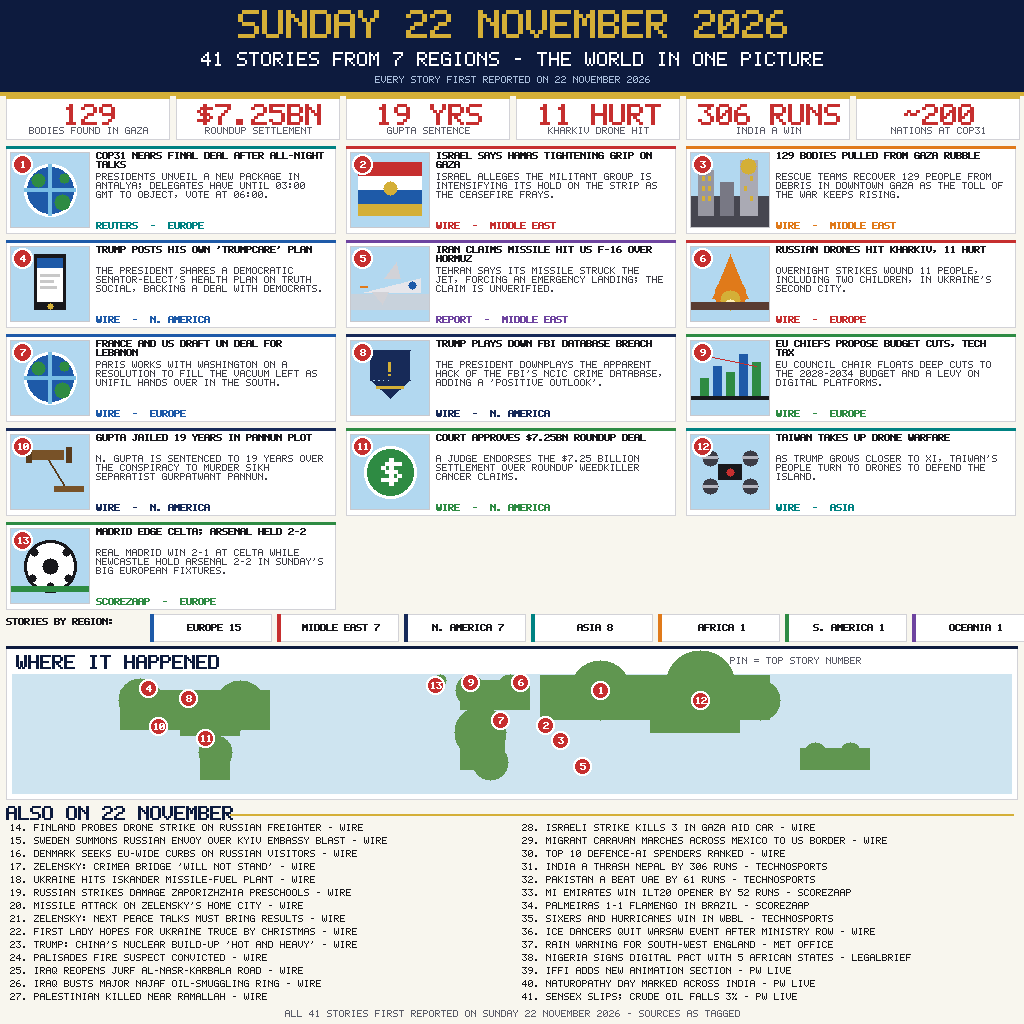
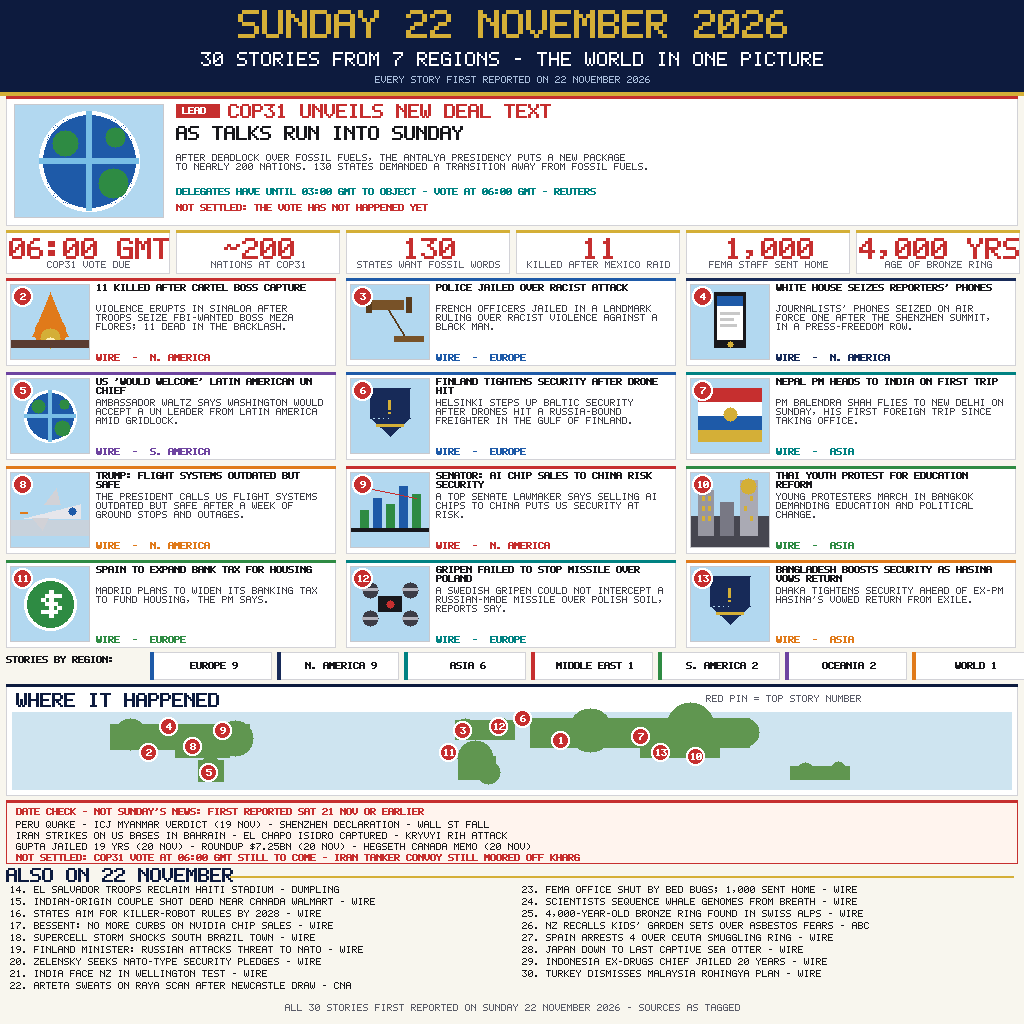
news-image-20261122 round 2: giant COP31 lead, DATE CHECK box, 30 verified 22-Nov stories

diff --git a/main.ts b/main.ts
@@ -253,70 +253,60 @@ function wrapText(s, maxW, scale) {
 }
 
 // ---------- story data: every story first reported on Sunday 22 Nov 2026 ----------
-// TOP 13 get a drawn visual panel; the rest appear in the numbered ALSO list.
+// Story 1 is the giant lead. TOP 2-13 get a drawn visual panel; the rest appear
+// in the numbered ALSO list. Items first reported 21 Nov or earlier are NOT
+// listed as news: they appear only in the DATE CHECK box below.
 // [num, headline, summary, source, region, scene, accent]
 const TOP = [
-  [1, "COP31 NEARS FINAL DEAL AFTER ALL-NIGHT TALKS", "Presidents unveil a new package in Antalya; delegates have until 03:00 GMT to object, vote at 06:00.", "REUTERS", "EUROPE", "globe", TEAL],
-  [2, "ISRAEL SAYS HAMAS TIGHTENING GRIP ON GAZA", "Israel alleges the militant group is intensifying its hold on the Strip as the ceasefire frays.", "WIRE", "MIDDLE EAST", "flag", RED],
-  [3, "129 BODIES PULLED FROM GAZA RUBBLE", "Rescue teams recover 129 people from debris in downtown Gaza as the toll of the war keeps rising.", "WIRE", "MIDDLE EAST", "building", ORANGE],
-  [4, "TRUMP POSTS HIS OWN 'TRUMPCARE' PLAN", "The president shares a Democratic senator-elect's health plan on Truth Social, backing a deal with Democrats.", "WIRE", "N. AMERICA", "phone", BLUE],
-  [5, "IRAN CLAIMS MISSILE HIT US F-16 OVER HORMUZ", "Tehran says its missile struck the jet, forcing an emergency landing; the claim is unverified.", "REPORT", "MIDDLE EAST", "plane", PURPLE],
-  [6, "RUSSIAN DRONES HIT KHARKIV, 11 HURT", "Overnight strikes wound 11 people, including two children, in Ukraine's second city.", "WIRE", "EUROPE", "flame", RED],
-  [7, "FRANCE AND US DRAFT UN DEAL FOR LEBANON", "Paris works with Washington on a resolution to fill the vacuum left as UNIFIL hands over in the south.", "WIRE", "EUROPE", "globe", BLUE],
-  [8, "TRUMP PLAYS DOWN FBI DATABASE BREACH", "The president downplays the apparent hack of the FBI's NCIC crime database, adding a 'positive outlook'.", "WIRE", "N. AMERICA", "shield", NAVY2],
-  [9, "EU CHIEFS PROPOSE BUDGET CUTS, TECH TAX", "EU Council chair floats deep cuts to the 2028-2034 budget and a levy on digital platforms.", "WIRE", "EUROPE", "chart", GREEN],
-  [10, "GUPTA JAILED 19 YEARS IN PANNUN PLOT", "N. Gupta is sentenced to 19 years over the conspiracy to murder Sikh separatist Gurpatwant Pannun.", "WIRE", "N. AMERICA", "gavel", NAVY2],
-  [11, "COURT APPROVES $7.25BN ROUNDUP DEAL", "A judge endorses the $7.25 billion settlement over Roundup weedkiller cancer claims.", "WIRE", "N. AMERICA", "dollar", GREEN],
-  [12, "TAIWAN TAKES UP DRONE WARFARE", "As Trump grows closer to Xi, Taiwan's people turn to drones to defend the island.", "WIRE", "ASIA", "drone", TEAL],
-  [13, "MADRID EDGE CELTA; ARSENAL HELD 2-2", "Real Madrid win 2-1 at Celta while Newcastle hold Arsenal 2-2 in Sunday's big European fixtures.", "SCOREZAAP", "EUROPE", "ball", GREEN],
+  [2, "11 KILLED AFTER CARTEL BOSS CAPTURE", "Violence erupts in Sinaloa after troops seize FBI-wanted boss Meza Flores; 11 dead in the backlash.", "WIRE", "N. AMERICA", "flame", RED],
+  [3, "POLICE JAILED OVER RACIST ATTACK", "French officers jailed in a landmark ruling over racist violence against a black man.", "WIRE", "EUROPE", "gavel", BLUE],
+  [4, "WHITE HOUSE SEIZES REPORTERS' PHONES", "Journalists' phones seized on Air Force One after the Shenzhen summit, in a press-freedom row.", "WIRE", "N. AMERICA", "phone", NAVY2],
+  [5, "US 'WOULD WELCOME' LATIN AMERICAN UN CHIEF", "Ambassador Waltz says Washington would accept a UN leader from Latin America amid gridlock.", "WIRE", "S. AMERICA", "globe", PURPLE],
+  [6, "FINLAND TIGHTENS SECURITY AFTER DRONE HIT", "Helsinki steps up Baltic security after drones hit a Russia-bound freighter in the Gulf of Finland.", "WIRE", "EUROPE", "shield", BLUE],
+  [7, "NEPAL PM HEADS TO INDIA ON FIRST TRIP", "PM Balendra Shah flies to New Delhi on Sunday, his first foreign trip since taking office.", "WIRE", "ASIA", "flag", TEAL],
+  [8, "TRUMP: FLIGHT SYSTEMS OUTDATED BUT SAFE", "The president calls US flight systems outdated but safe after a week of ground stops and outages.", "WIRE", "N. AMERICA", "plane", ORANGE],
+  [9, "SENATOR: AI CHIP SALES TO CHINA RISK SECURITY", "A top Senate lawmaker says selling AI chips to China puts US security at risk.", "WIRE", "N. AMERICA", "chart", RED],
+  [10, "THAI YOUTH PROTEST FOR EDUCATION REFORM", "Young protesters march in Bangkok demanding education and political change.", "WIRE", "ASIA", "building", GREEN],
+  [11, "SPAIN TO EXPAND BANK TAX FOR HOUSING", "Madrid plans to widen its banking tax to fund housing, the PM says.", "WIRE", "EUROPE", "dollar", GREEN],
+  [12, "GRIPEN FAILED TO STOP MISSILE OVER POLAND", "A Swedish Gripen could not intercept a Russian-made missile over Polish soil, reports say.", "WIRE", "EUROPE", "drone", TEAL],
+  [13, "BANGLADESH BOOSTS SECURITY AS HASINA VOWS RETURN", "Dhaka tightens security ahead of ex-PM Hasina's vowed return from exile.", "WIRE", "ASIA", "shield", ORANGE],
 ];
 // [num, headline, source, region]
 const ALSO = [
-  [14, "FINLAND PROBES DRONE STRIKE ON RUSSIAN FREIGHTER", "WIRE", "EUROPE"],
-  [15, "SWEDEN SUMMONS RUSSIAN ENVOY OVER KYIV EMBASSY BLAST", "WIRE", "EUROPE"],
-  [16, "DENMARK SEEKS EU-WIDE CURBS ON RUSSIAN VISITORS", "WIRE", "EUROPE"],
-  [17, "ZELENSKY: CRIMEA BRIDGE 'WILL NOT STAND'", "WIRE", "EUROPE"],
-  [18, "UKRAINE HITS ISKANDER MISSILE-FUEL PLANT", "WIRE", "EUROPE"],
-  [19, "RUSSIAN STRIKES DAMAGE ZAPORIZHZHIA PRESCHOOLS", "WIRE", "EUROPE"],
-  [20, "MISSILE ATTACK ON ZELENSKY'S HOME CITY", "WIRE", "EUROPE"],
-  [21, "ZELENSKY: NEXT PEACE TALKS MUST BRING RESULTS", "WIRE", "EUROPE"],
-  [22, "FIRST LADY HOPES FOR UKRAINE TRUCE BY CHRISTMAS", "WIRE", "N. AMERICA"],
-  [23, "TRUMP: CHINA'S NUCLEAR BUILD-UP 'HOT AND HEAVY'", "WIRE", "ASIA"],
-  [24, "PALISADES FIRE SUSPECT CONVICTED", "WIRE", "N. AMERICA"],
-  [25, "IRAQ REOPENS JURF AL-NASR-KARBALA ROAD", "WIRE", "MIDDLE EAST"],
-  [26, "IRAQ BUSTS MAJOR NAJAF OIL-SMUGGLING RING", "WIRE", "MIDDLE EAST"],
-  [27, "PALESTINIAN KILLED NEAR RAMALLAH", "WIRE", "MIDDLE EAST"],
-  [28, "ISRAELI STRIKE KILLS 3 IN GAZA AID CAR", "WIRE", "MIDDLE EAST"],
-  [29, "MIGRANT CARAVAN MARCHES ACROSS MEXICO TO US BORDER", "WIRE", "N. AMERICA"],
-  [30, "TOP 10 DEFENCE-AI SPENDERS RANKED", "WIRE", "GLOBAL"],
-  [31, "INDIA A THRASH NEPAL BY 306 RUNS", "TECHNOSPORTS", "ASIA"],
-  [32, "PAKISTAN A BEAT UAE BY 61 RUNS", "TECHNOSPORTS", "ASIA"],
-  [33, "MI EMIRATES WIN ILT20 OPENER BY 52 RUNS", "SCOREZAAP", "ASIA"],
-  [34, "PALMEIRAS 1-1 FLAMENGO IN BRAZIL", "SCOREZAAP", "S. AMERICA"],
-  [35, "SIXERS AND HURRICANES WIN IN WBBL", "TECHNOSPORTS", "OCEANIA"],
-  [36, "ICE DANCERS QUIT WARSAW EVENT AFTER MINISTRY ROW", "WIRE", "EUROPE"],
-  [37, "RAIN WARNING FOR SOUTH-WEST ENGLAND", "MET OFFICE", "EUROPE"],
-  [38, "NIGERIA SIGNS DIGITAL PACT WITH 5 AFRICAN STATES", "LEGALBRIEF", "AFRICA"],
-  [39, "IFFI ADDS NEW ANIMATION SECTION", "PW LIVE", "ASIA"],
-  [40, "NATUROPATHY DAY MARKED ACROSS INDIA", "PW LIVE", "ASIA"],
-  [41, "SENSEX SLIPS; CRUDE OIL FALLS 3%", "PW LIVE", "ASIA"],
+  [14, "EL SALVADOR TROOPS RECLAIM HAITI STADIUM", "DUMPLING", "N. AMERICA"],
+  [15, "INDIAN-ORIGIN COUPLE SHOT DEAD NEAR CANADA WALMART", "WIRE", "N. AMERICA"],
+  [16, "STATES AIM FOR KILLER-ROBOT RULES BY 2028", "WIRE", "WORLD"],
+  [17, "BESSENT: NO MORE CURBS ON NVIDIA CHIP SALES", "WIRE", "N. AMERICA"],
+  [18, "SUPERCELL STORM SHOCKS SOUTH BRAZIL TOWN", "WIRE", "S. AMERICA"],
+  [19, "FINLAND MINISTER: RUSSIAN ATTACKS THREAT TO NATO", "WIRE", "EUROPE"],
+  [20, "ZELENSKY SEEKS NATO-TYPE SECURITY PLEDGES", "WIRE", "EUROPE"],
+  [21, "INDIA FACE NZ IN WELLINGTON TEST", "WIRE", "OCEANIA"],
+  [22, "ARTETA SWEATS ON RAYA SCAN AFTER NEWCASTLE DRAW", "CNA", "EUROPE"],
+  [23, "FEMA OFFICE SHUT BY BED BUGS; 1,000 SENT HOME", "WIRE", "N. AMERICA"],
+  [24, "SCIENTISTS SEQUENCE WHALE GENOMES FROM BREATH", "WIRE", "N. AMERICA"],
+  [25, "4,000-YEAR-OLD BRONZE RING FOUND IN SWISS ALPS", "WIRE", "EUROPE"],
+  [26, "NZ RECALLS KIDS' GARDEN SETS OVER ASBESTOS FEARS", "ABC", "OCEANIA"],
+  [27, "SPAIN ARRESTS 4 OVER CEUTA SMUGGLING RING", "WIRE", "EUROPE"],
+  [28, "JAPAN DOWN TO LAST CAPTIVE SEA OTTER", "WIRE", "ASIA"],
+  [29, "INDONESIA EX-DRUGS CHIEF JAILED 20 YEARS", "WIRE", "ASIA"],
+  [30, "TURKEY DISMISSES MALAYSIA ROHINGYA PLAN", "WIRE", "ASIA"],
 ];
 const REGIONS = [
-  ["EUROPE", 15, BLUE],
-  ["MIDDLE EAST", 7, RED],
-  ["N. AMERICA", 7, NAVY2],
-  ["ASIA", 8, TEAL],
-  ["AFRICA", 1, ORANGE],
-  ["S. AMERICA", 1, GREEN],
-  ["OCEANIA", 1, PURPLE],
+  ["EUROPE", 9, BLUE],
+  ["N. AMERICA", 9, NAVY2],
+  ["ASIA", 6, TEAL],
+  ["MIDDLE EAST", 1, RED],
+  ["S. AMERICA", 2, GREEN],
+  ["OCEANIA", 2, PURPLE],
+  ["WORLD", 1, ORANGE],
 ];
 const STATS = [
-  ["129", "BODIES FOUND IN GAZA"],
-  ["$7.25BN", "ROUNDUP SETTLEMENT"],
-  ["19 YRS", "GUPTA SENTENCE"],
-  ["11 HURT", "KHARKIV DRONE HIT"],
-  ["306 RUNS", "INDIA A WIN"],
+  ["06:00 GMT", "COP31 VOTE DUE"],
   ["~200", "NATIONS AT COP31"],
+  ["130", "STATES WANT FOSSIL WORDS"],
+  ["11", "KILLED AFTER MEXICO RAID"],
+  ["1,000", "FEMA STAFF SENT HOME"],
+  ["4,000 YRS", "AGE OF BRONZE RING"],
 ];
 
 // ---------- drawn visual scenes (all shapes, no images) ----------
@@ -421,12 +411,12 @@ function drawMasthead(cv) {
   cv.fill(0, 0, W, 92, NAVY);
   cv.fill(0, 92, W, 4, GOLD);
   drawTextCentered(cv, 512, 10, "SUNDAY 22 NOVEMBER 2026", 4, GOLD, true);
-  drawTextCentered(cv, 512, 52, "41 STORIES FROM 7 REGIONS - THE WORLD IN ONE PICTURE", 2, WHITE, false);
+  drawTextCentered(cv, 512, 52, "30 STORIES FROM 7 REGIONS - THE WORLD IN ONE PICTURE", 2, WHITE, false);
   drawTextCentered(cv, 512, 76, "EVERY STORY FIRST REPORTED ON 22 NOVEMBER 2026", 1, [170, 190, 220], false);
 }
 
 function drawStats(cv) {
-  const bw = 164, gap = 6, y = 96, h = 44;
+  const bw = 164, gap = 6, y = 230, h = 44;
   STATS.forEach((s, i) => {
     const x = 6 + i * (bw + gap);
     cv.fill(x, y, bw, h, WHITE);
@@ -458,8 +448,36 @@ function drawTopPanel(cv, story, px, py) {
   drawText(cv, px + 90, py + 76, source + "  -  " + region, 1, accent, true);
 }
 
+function drawLead(cv) {
+  const x = 6, y = 96, w = 1012, h = 130;
+  cv.fill(x, y, w, h, WHITE);
+  cv.rect(x, y, w, h, [210, 210, 215]);
+  cv.fill(x, y, w, 3, RED);
+  // big globe visual, drawn by hand
+  const gx = x + 8, gy = y + 8, gw = 150, gh = 114;
+  cv.fill(gx, gy, gw, gh, SKY);
+  const cx = gx + 75, cy = gy + 57;
+  cv.circle(cx, cy, 50, BLUE);
+  cv.ring(cx, cy, 50, 3, WHITE);
+  cv.fill(cx - 3, cy - 50, 6, 100, [120, 190, 230]);
+  cv.fill(cx - 50, cy - 3, 100, 6, [120, 190, 230]);
+  cv.circle(cx - 24, cy - 18, 13, GREEN);
+  cv.circle(cx + 24, cy + 22, 15, GREEN);
+  cv.circle(cx + 26, cy - 24, 10, GREEN);
+  cv.rect(gx, gy, gw, gh, [200, 200, 205]);
+  // red LEAD tag + giant headline
+  cv.fill(x + 170, y + 8, 44, 14, RED);
+  drawText(cv, x + 176, y + 11, "LEAD", 1, WHITE, true);
+  drawText(cv, x + 222, y + 8, "COP31 UNVEILS NEW DEAL TEXT", 2, RED, true);
+  drawText(cv, x + 170, y + 30, "AS TALKS RUN INTO SUNDAY", 2, INK, true);
+  drawText(cv, x + 170, y + 58, "AFTER DEADLOCK OVER FOSSIL FUELS, THE ANTALYA PRESIDENCY PUTS A NEW PACKAGE", 1, [60, 60, 68], false);
+  drawText(cv, x + 170, y + 67, "TO NEARLY 200 NATIONS. 130 STATES DEMANDED A TRANSITION AWAY FROM FOSSIL FUELS.", 1, [60, 60, 68], false);
+  drawText(cv, x + 170, y + 92, "DELEGATES HAVE UNTIL 03:00 GMT TO OBJECT - VOTE AT 06:00 GMT - REUTERS", 1, TEAL, true);
+  drawText(cv, x + 170, y + 108, "NOT SETTLED: THE VOTE HAS NOT HAPPENED YET", 1, RED, true);
+}
+
 function drawRegions(cv) {
-  const y = 614, h = 28;
+  const y = 652, h = 28;
   drawText(cv, 6, y + 4, "STORIES BY REGION:", 1, INK, true);
   const x0 = 150;
   const bw = 122, gap = 5;
@@ -473,7 +491,7 @@ function drawRegions(cv) {
 }
 
 function drawMap(cv) {
-  const x = 6, y = 646, w = 1012, h = 154;
+  const x = 6, y = 684, w = 1012, h = 112;
   cv.fill(x, y, w, h, WHITE);
   cv.rect(x, y, w, h, [210, 210, 215]);
   cv.fill(x, y, w, 3, NAVY);
@@ -483,18 +501,17 @@ function drawMap(cv) {
   const sea = [206, 228, 240];
   cv.fill(x + 6, y + 28, w - 12, h - 34, sea);
   // continents (rough shapes from circles + rects)
-  cv.fill(120, 690, 150, 40, land); cv.circle(140, 700, 22, land); cv.circle(240, 705, 25, land);
-  cv.fill(180, 720, 60, 16, land);
-  cv.circle(215, 752, 17, land); cv.fill(200, 746, 30, 34, land);
-  cv.fill(460, 680, 70, 30, land); cv.circle(470, 690, 15, land); cv.circle(510, 688, 14, land);
-  cv.circle(440, 680, 6, land);
-  cv.circle(480, 732, 26, land); cv.fill(460, 730, 45, 40, land); cv.circle(490, 762, 18, land);
-  cv.fill(540, 675, 230, 45, land); cv.circle(600, 690, 30, land); cv.circle(700, 685, 35, land);
-  cv.fill(650, 715, 90, 18, land); cv.circle(760, 700, 20, land);
-  cv.fill(800, 748, 70, 22, land); cv.circle(815, 754, 12, land); cv.circle(850, 752, 10, land);
+  cv.fill(110, 724, 140, 26, land); cv.circle(130, 734, 16, land); cv.circle(235, 738, 18, land);
+  cv.fill(175, 748, 55, 10, land);
+  cv.circle(210, 768, 12, land); cv.fill(198, 760, 26, 22, land);
+  cv.fill(455, 720, 60, 20, land); cv.circle(465, 728, 10, land); cv.circle(500, 726, 9, land);
+  cv.circle(475, 758, 18, land); cv.fill(458, 756, 38, 24, land); cv.circle(488, 772, 12, land);
+  cv.fill(530, 718, 220, 30, land); cv.circle(590, 730, 22, land); cv.circle(690, 726, 24, land);
+  cv.fill(640, 746, 80, 12, land); cv.circle(745, 732, 14, land);
+  cv.fill(790, 766, 60, 14, land); cv.circle(805, 770, 8, land); cv.circle(838, 768, 7, land);
   const pins = [
-    [600, 690], [545, 725], [560, 740], [148, 688], [582, 766], [520, 682],
-    [500, 720], [188, 698], [470, 682], [158, 726], [205, 738], [700, 700], [435, 685],
+    [560, 740], [148, 752], [462, 730], [168, 726], [208, 772], [522, 718],
+    [640, 736], [192, 746], [222, 730], [695, 756], [448, 752], [498, 726], [660, 752],
   ];
   pins.forEach((p, i) => {
     const n = String(i + 1);
@@ -504,31 +521,45 @@ function drawMap(cv) {
   });
 }
 
+function drawDateCheck(cv) {
+  const x = 6, y = 800, w = 1012, h = 64;
+  cv.fill(x, y, w, h, [255, 244, 238]);
+  cv.rect(x, y, w, h, RED);
+  cv.fill(x, y, w, 3, RED);
+  drawText(cv, x + 10, y + 8, "DATE CHECK - NOT SUNDAY'S NEWS: FIRST REPORTED SAT 21 NOV OR EARLIER", 1, RED, true);
+  drawText(cv, x + 10, y + 21, "PERU QUAKE - ICJ MYANMAR VERDICT (19 NOV) - SHENZHEN DECLARATION - WALL ST FALL", 1, INK, false);
+  drawText(cv, x + 10, y + 32, "IRAN STRIKES ON US BASES IN BAHRAIN - EL CHAPO ISIDRO CAPTURED - KRYVYI RIH ATTACK", 1, INK, false);
+  drawText(cv, x + 10, y + 43, "GUPTA JAILED 19 YRS (20 NOV) - ROUNDUP $7.25BN (20 NOV) - HEGSETH CANADA MEMO (20 NOV)", 1, INK, false);
+  drawText(cv, x + 10, y + 54, "NOT SETTLED: COP31 VOTE AT 06:00 GMT STILL TO COME - IRAN TANKER CONVOY STILL MOORED OFF KHARG", 1, RED, true);
+}
+
 function drawAlso(cv) {
-  drawText(cv, 6, 806, "ALSO ON 22 NOVEMBER", 2, NAVY, true);
-  cv.fill(230, 814, 784, 2, GOLD);
+  drawText(cv, 6, 868, "ALSO ON 22 NOVEMBER", 2, NAVY, true);
+  cv.fill(230, 876, 784, 2, GOLD);
   const colX = [10, 522];
   ALSO.forEach((s, i) => {
-    const col = i < 14 ? 0 : 1;
-    const row = i % 14;
-    const y = 824 + row * 13;
+    const col = i < 9 ? 0 : 1;
+    const row = i % 9;
+    const y = 886 + row * 12;
     const line = s[0] + ". " + s[1] + " - " + s[2];
     drawText(cv, colX[col], y, line, 1, INK, false);
   });
-  drawTextCentered(cv, 512, 1010, "ALL 41 STORIES FIRST REPORTED ON SUNDAY 22 NOVEMBER 2026 - SOURCES AS TAGGED", 1, MUTED, false);
+  drawTextCentered(cv, 512, 1004, "ALL 30 STORIES FIRST REPORTED ON SUNDAY 22 NOVEMBER 2026 - SOURCES AS TAGGED", 1, MUTED, false);
 }
 
 // ---------- build ----------
 function build() {
   const cv = new Canvas(W, H, PAPER);
   drawMasthead(cv);
+  drawLead(cv);
   drawStats(cv);
   TOP.forEach((s, i) => {
     const col = i % 3, row = Math.floor(i / 3);
-    drawTopPanel(cv, s, 6 + col * 340, 146 + row * 94);
+    drawTopPanel(cv, s, 6 + col * 340, 278 + row * 94);
   });
   drawRegions(cv);
   drawMap(cv);
+  drawDateCheck(cv);
   drawAlso(cv);
   return encodePNG(cv.px, W, H);
 }
@@ -539,6 +570,6 @@ function main() {
   const png = build();
   fs.writeFileSync(path.join(outDir, "entry.png"), png);
   console.log("entry.png bytes: " + png.length);
-  console.log("stories: " + (TOP.length + ALSO.length));
+  console.log("stories: " + (1 + TOP.length + ALSO.length));
 }
 main();

diff --git a/README.md b/README.md
@@ -2,7 +2,7 @@
 [![make.fun · news-image-20261122](https://make.fun/badge/news-image-20261122.svg)](https://make.fun/bounty/news-image-20261122?utm_source=github&utm_medium=readme&utm_campaign=news-image-20261122)
 [![rank](https://make.fun/badge/news-image-20261122/ydhikaaa/news-image-20261122/rank.svg)](https://make.fun/bounty/news-image-20261122/leaderboard?utm_source=github&utm_medium=readme&utm_campaign=news-image-20261122)
 [![reward](https://make.fun/badge/news-image-20261122/ydhikaaa/news-image-20261122/reward.svg)](https://make.fun/bounty/news-image-20261122?utm_source=github&utm_medium=readme&utm_campaign=news-image-20261122)
-A single 1024x1024 front page summing up Sunday 22 November 2026 in 41 stories from 7 regions — a giant dated masthead, 13 illustrated top stories, a stats strip, region counts, a numbered world map and a full numbered list, all drawn in code with a hand-written PNG encoder and bitmap font.
+A single 1024x1024 front page summing up Sunday 22 November 2026 in 30 stories from 7 regions — a giant COP31 lead, 12 illustrated top stories, a stats strip, region counts, a numbered world map, a DATE CHECK box naming what is NOT Sunday's news, and a full numbered list, all drawn in code with a hand-written PNG encoder and bitmap font.
 ## Run it
 ```sh
 mkdir -p out && MAKEFUN_OUTPUT_DIR=out node main.ts
